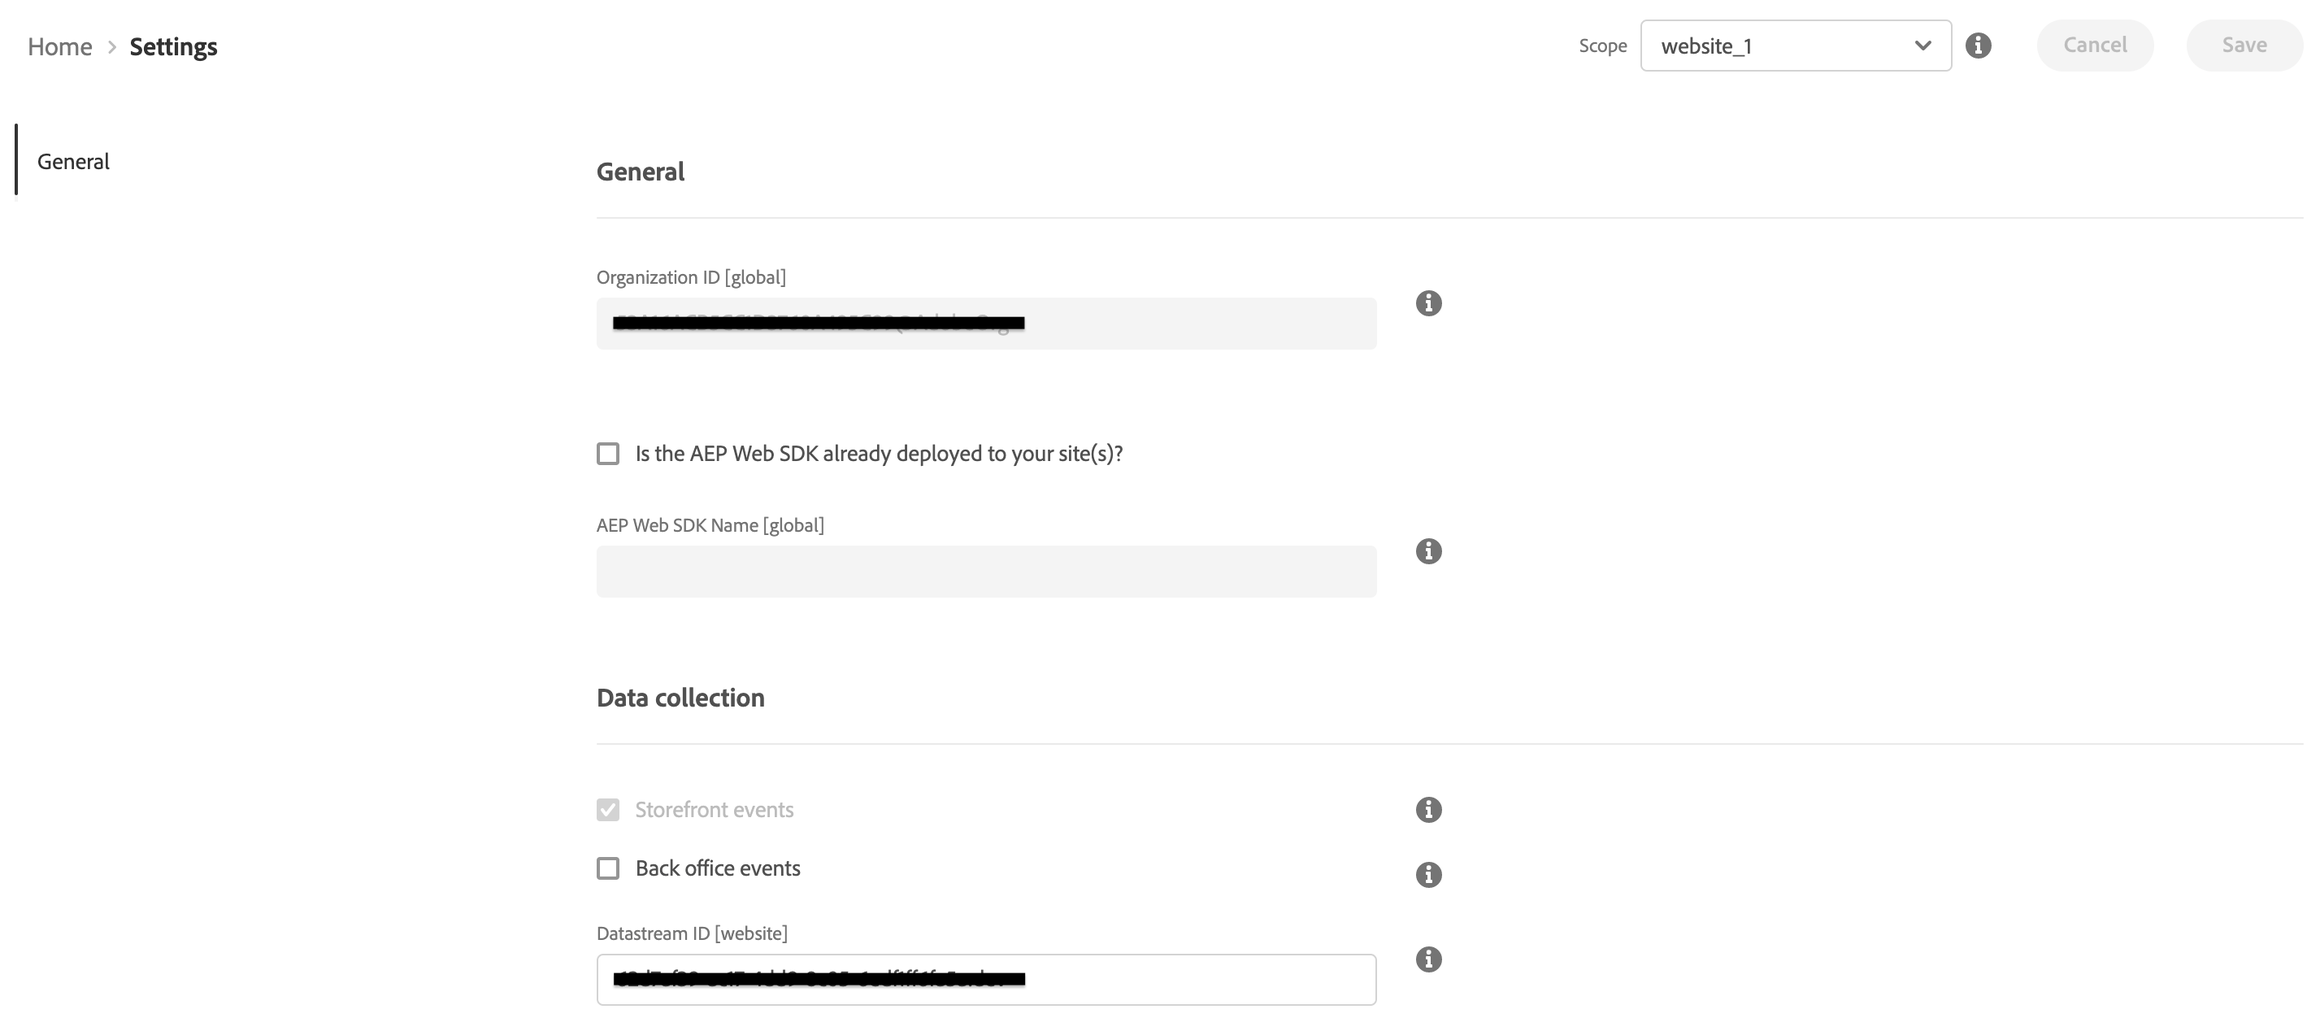
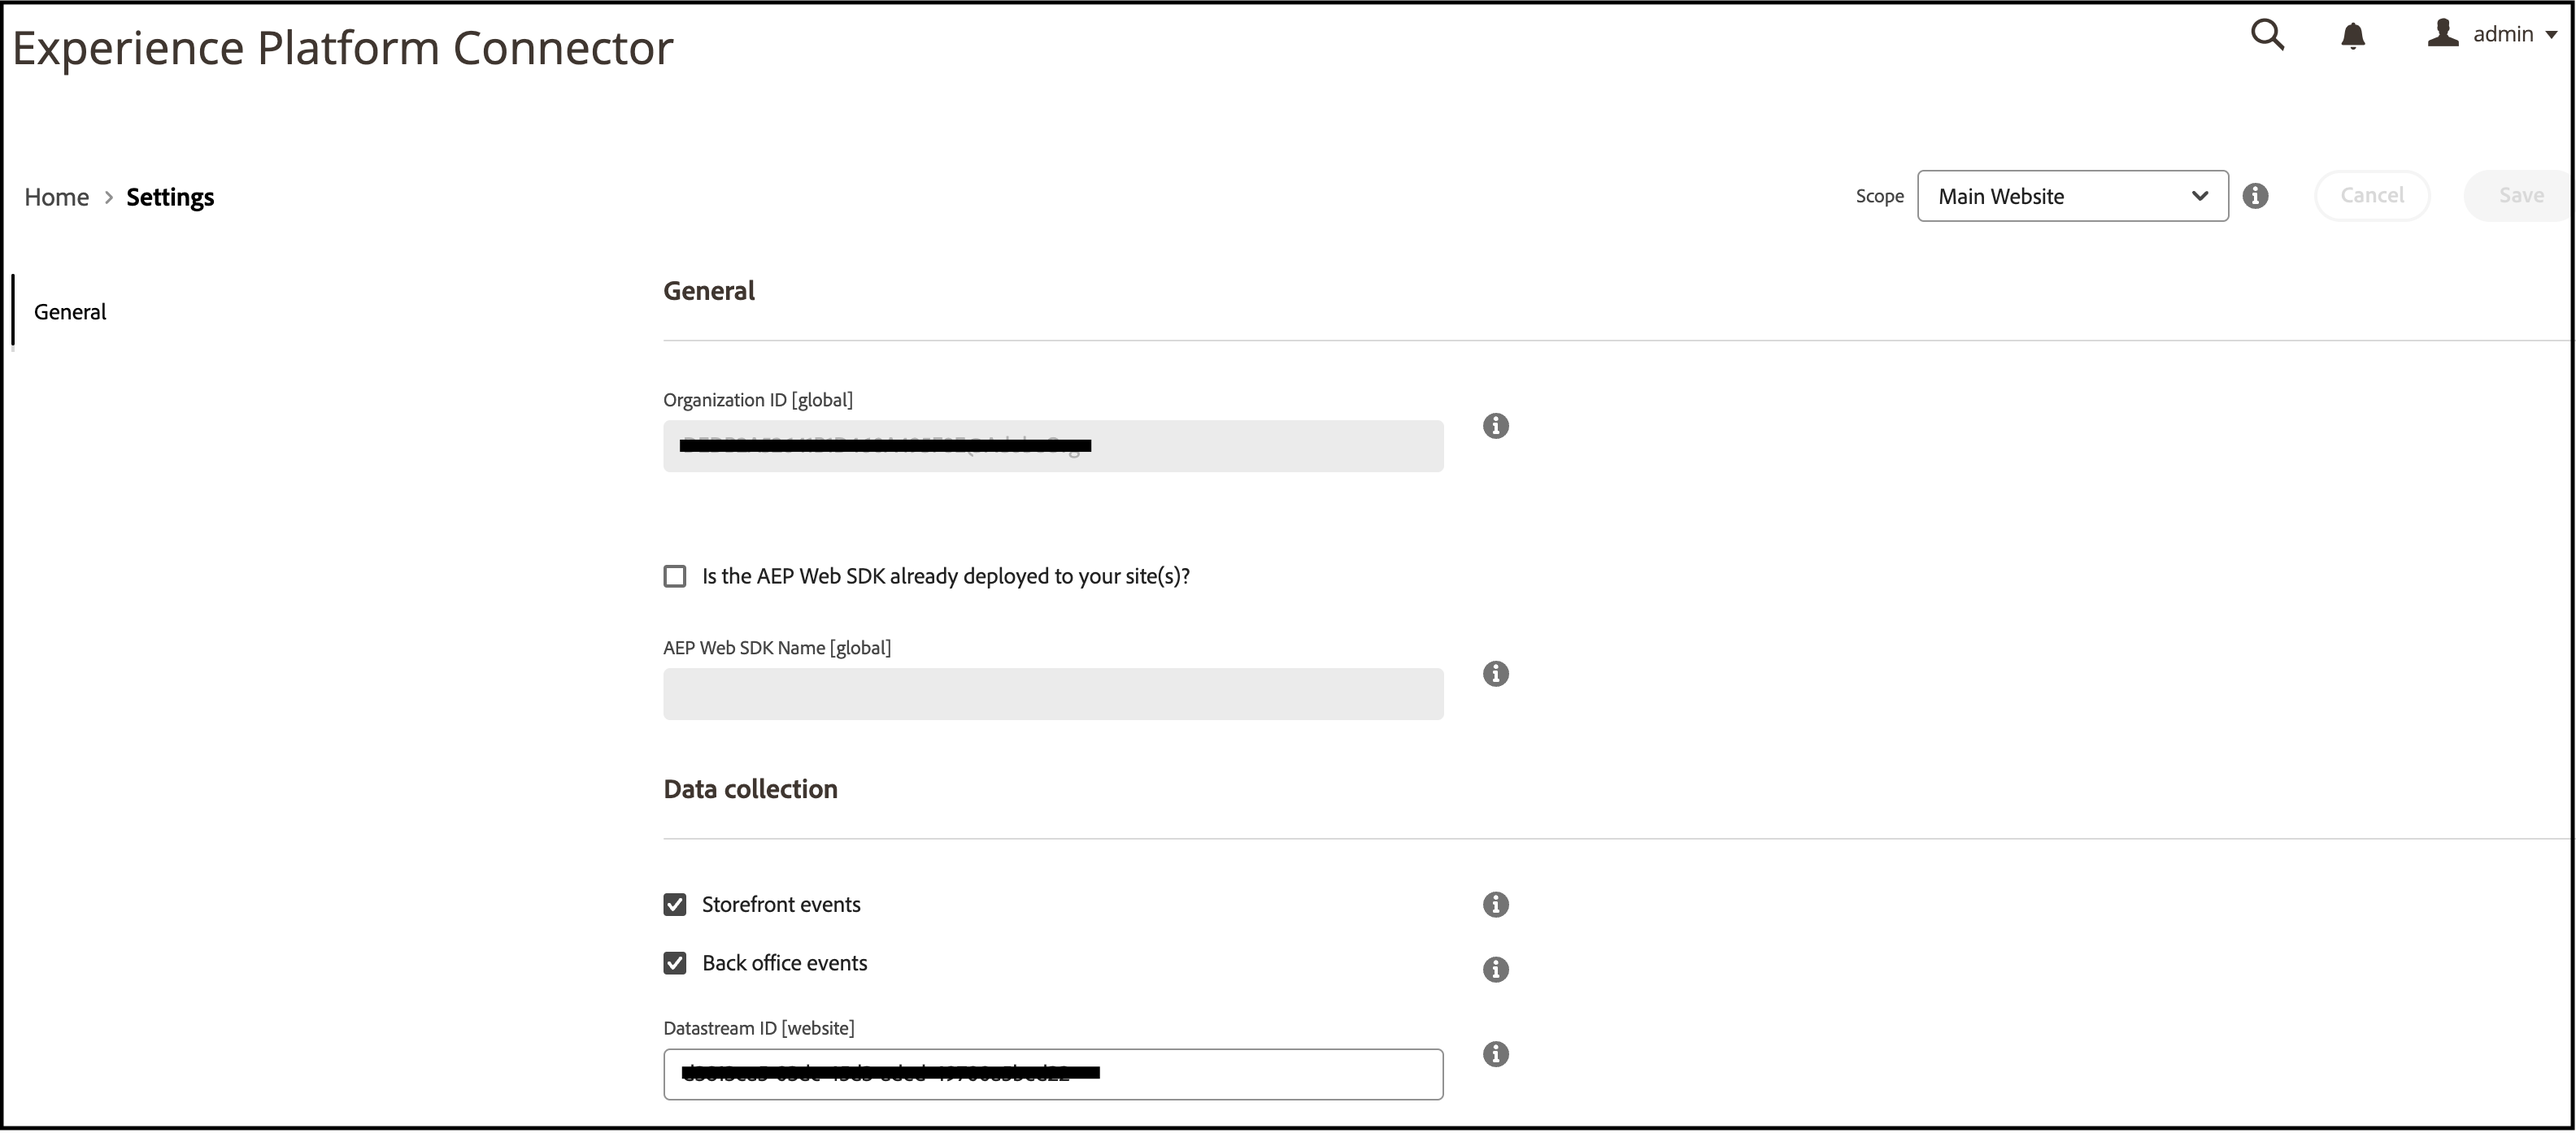
Updating for 3.0.0beta 2 release

diff --git a/help/experience-platform-connector/custom-events.md b/help/experience-platform-connector/custom-events.md
@@ -1,13 +1,13 @@
 ---
 title: Create Custom Events
-description: Learn how to create custom events connect your Adobe Commerce data to other Adobe DX products.
+description: Learn how to create custom events to connect your Adobe Commerce data to other Adobe DX products.
 exl-id: 5a754106-c66a-4280-9896-6d065df8a841
 ---
 # Create Custom Events
 
 You can extend the [eventing platform](events.md) by creating your own storefront events to collect data unique to your industry. When you create and configure a custom event, it is sent to the [Adobe Commerce Events Collector](https://github.com/adobe/commerce-events/tree/main/packages/commerce-events-collectors).
 
-## Handle Custom Events
+## Handle custom events
 
 Custom events are supported for the Adobe Experience Platform only. Custom data is not forwarded to Adobe Commerce dashboards and metrics trackers.
 
@@ -39,7 +39,7 @@ In Experience Platform Edge:
 >
 > Using custom events may affect default Adobe Analytics reports.
 
-## Handle Event Overrides (custom attributes)
+## Handle event overrides (custom attributes)
 
 Attribute overrides for standard events are supported for the Experience Platform only. Custom data is not forwarded to Commerce dashboards and metrics trackers.
 

diff --git a/help/experience-platform-connector/release-notes.md b/help/experience-platform-connector/release-notes.md
@@ -40,6 +40,16 @@ _October 12, 2022_
 
 +++
 
+## 3.0.0-beta2
+
+_June 13, 2023_
+
+[!BADGE Compatibility]{type=Informative tooltip="Compatibility"} Adobe Commerce versions 2.4.3 and newer
+
+* ![New](../assets/new.svg) - Added ability to [turn off sending storefront events](connect-data.md#data-collection) to the Experience Platform.
+* ![Fix](../assets/fix.svg) - Updated Content Security Policy configurations.
+
+
 ## 3.0.0-beta1
 
 _June 13, 2023_
